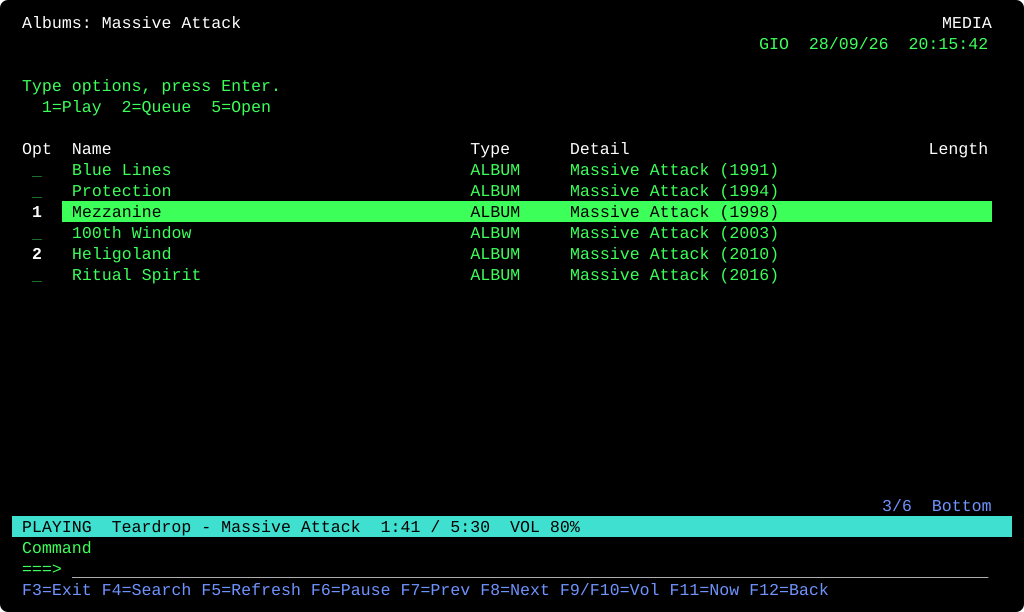
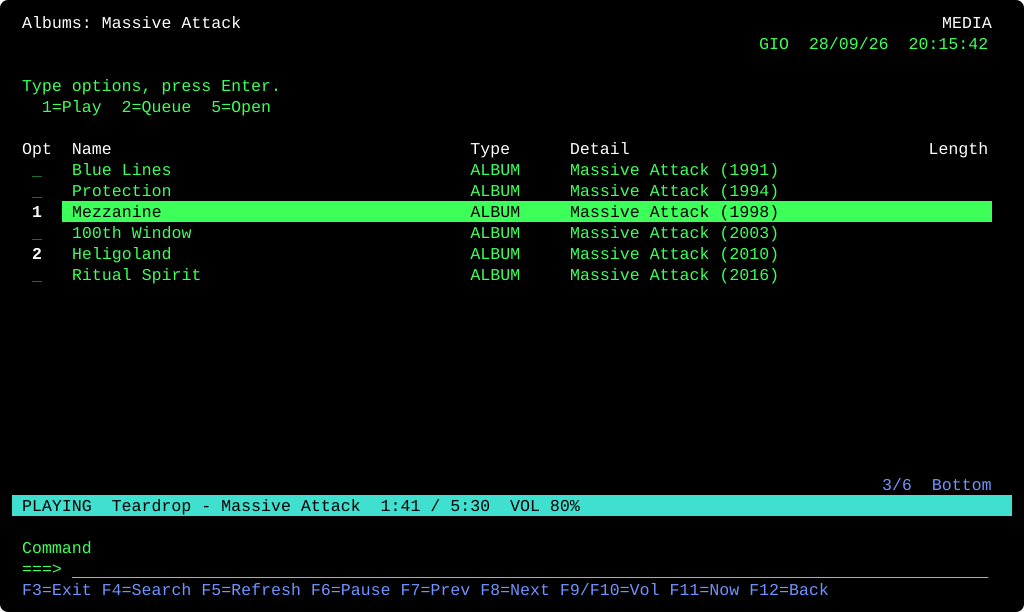
Restart dead mpv, keep last real position, fix message/command overlap

Changed region(s): [[0.0, 0.7761, 1.0, 0.9003]]

diff --git a/src/app.rs b/src/app.rs
@@ -242,6 +242,9 @@ impl App {
 
     /// Called every loop: reports start, progress and stop to Jellyfin.
     pub fn tick(&mut self) {
+        if self.reap_player() {
+            self.info("MPV ENDED - PLAYBACK STOPPED");
+        }
         self.load_more();
         self.tick_media();
         if self.client.cfg.token.is_empty() {
@@ -262,7 +265,8 @@ impl App {
                     index: s.index,
                     id,
                     last_sent,
-                    last_pos: s.pos,
+                    // mpv reports time-pos as null while a file unloads; keep the last real position.
+                    last_pos: if s.pos > 0.0 { s.pos } else { o.last_pos },
                     paused: s.paused,
                 });
             }
@@ -472,7 +476,18 @@ impl App {
 
     // ---- playback ----------------------------------------------------------
 
+    /// Drop a player whose mpv process has exited, so the next play starts a fresh one.
+    fn reap_player(&mut self) -> bool {
+        let dead = self.player.as_mut().is_some_and(|p| !p.alive());
+        if dead {
+            self.player = None;
+            self.queue.clear();
+        }
+        dead
+    }
+
     fn ensure_player(&mut self) -> bool {
+        self.reap_player();
         if self.player.is_none() {
             match Player::spawn(self.client.cfg.insecure) {
                 Ok(p) => self.player = Some(p),

diff --git a/src/player.rs b/src/player.rs
@@ -108,6 +108,10 @@ impl Player {
         {
             p.send(json!({ "command": ["observe_property", i + 1, name] }));
         }
+        // In the mpv window, q would quit the whole process. Make it just stop playback.
+        for key in ["q", "Q"] {
+            p.cmd(vec!["keybind".into(), key.into(), "stop".into()]);
+        }
         Ok(p)
     }
 
@@ -188,6 +192,11 @@ impl Player {
     }
     pub fn remove(&mut self, index: usize) {
         self.cmd(vec!["playlist-remove".into(), (index as i64).into()]);
+    }
+
+    /// False once the mpv process has exited (crash, or closed by the user).
+    pub fn alive(&mut self) -> bool {
+        matches!(self.child.try_wait(), Ok(None))
     }
 
     pub fn snapshot(&self) -> PlayerState {

diff --git a/src/ui.rs b/src/ui.rs
@@ -108,8 +108,9 @@ pub fn draw(f: &mut Frame, app: &mut App) {
     let w = area.width;
     let h = area.height;
 
-    let np_row = h.saturating_sub(4);
-    let msg_row = h.saturating_sub(3);
+    // Bottom rows, top to bottom: now-playing strip, message, command label, command, F-keys.
+    let np_row = h.saturating_sub(5);
+    let msg_row = h.saturating_sub(4);
     let cmd_row = h.saturating_sub(2);
     let key_row = h.saturating_sub(1);
 
